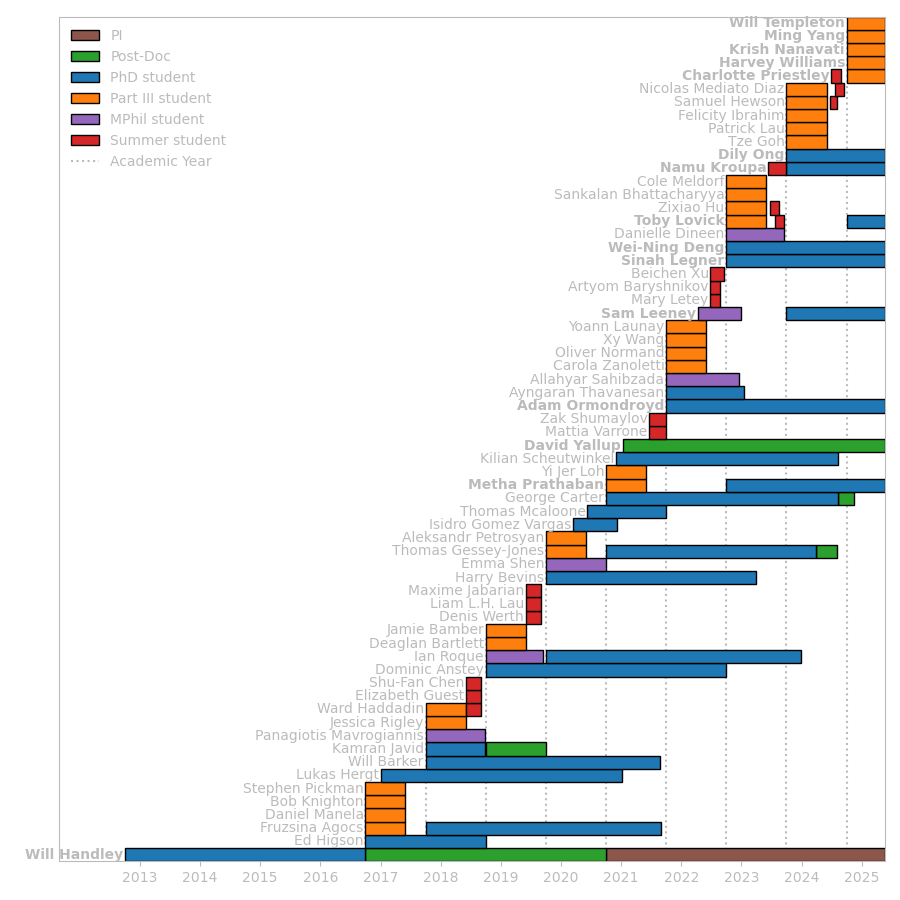
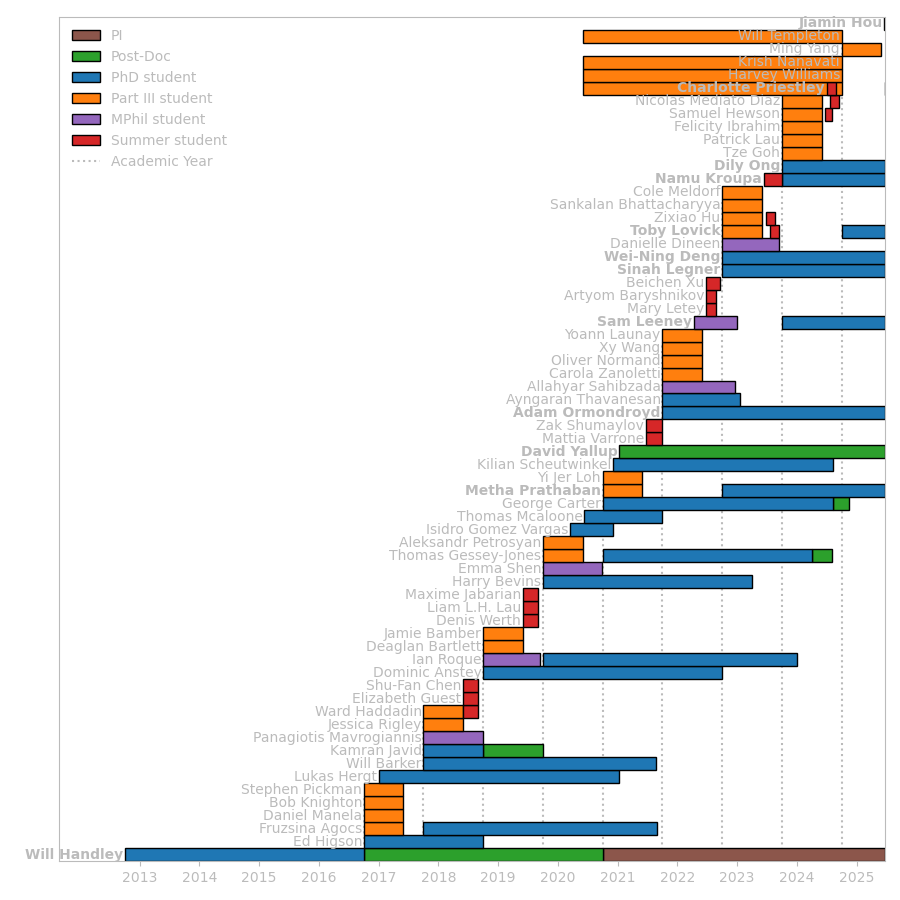
Updated group

diff --git a/assets/group/group.html b/assets/group/group.html
@@ -51,6 +51,28 @@
   <h1>Post-Docs</h1>
   <div class="grid">
     <div class="grid-item">
+      <img src="/assets/group/images/jiamin_hou.jpg" />
+    </div>
+    <div class="grid-item">
+      <p>
+        <font size="+2">Jiamin Hou</font>
+      </p>
+      <p>
+        <ul>
+          <li>Post-Doc from Jun 2025<ul></ul></li>
+          <li>Links:</li>
+          <ul>
+            <li>
+              <a href='https://orcid.org/0000-0001-6083-1947'>ORCiD</a>
+            </li>
+            <li>
+              <a href='https://www.mpe.mpg.de/~octobers/'>Webpage</a>
+            </li>
+          </ul>
+        </ul>
+      </p>
+    </div>
+    <div class="grid-item">
       <img src="/assets/group/images/david_yallup.jpg" />
     </div>
     <div class="grid-item">
@@ -80,6 +102,21 @@
 <div class="wrapper" style="margin-top:30pt">
   <h1>PhD students</h1>
   <div class="grid">
+    <div class="grid-item">
+      <img src="/assets/group/images/charlotte_priestley.jpg" />
+    </div>
+    <div class="grid-item">
+      <p>
+        <font size="+2">Charlotte Priestley</font>
+      </p>
+      <p>
+        <ul>
+          <li>PhD student from Oct 2025<ul><li>co-supervised with </li></ul></li>
+          <li>Part III student from Oct 2024 to Jun 2020<ul><li>co-supervised with <a href="https://htjb.github.io/">Harry Bevins</a></li></ul></li>
+          <li>Summer student from Jul 2024 to Aug 2024<ul><li>co-supervised with <a href="https://htjb.github.io/">Harry Bevins</a></li></ul></li>
+        </ul>
+      </p>
+    </div>
     <div class="grid-item">
       <img src="/assets/group/images/toby_lovick.jpg" />
     </div>
@@ -231,77 +268,6 @@
               <a href='https://github.com/AdamOrmondroyd'>GitHub</a>
             </li>
           </ul>
-        </ul>
-      </p>
-    </div>
-  </div>
-</div>
-<div class="wrapper" style="margin-top:30pt">
-  <h1>Part III students</h1>
-  <div class="grid">
-    <div class="grid-item">
-      <img src="/assets/group/images/harvey_williams.jpg" />
-    </div>
-    <div class="grid-item">
-      <p>
-        <font size="+2">Harvey Williams</font>
-      </p>
-      <p>
-        <ul>
-          <li>Part III student from Oct 2024<ul><li>co-supervised with </li></ul></li>
-        </ul>
-      </p>
-    </div>
-    <div class="grid-item">
-      <img src="/assets/group/images/krish_nanavati.jpg" />
-    </div>
-    <div class="grid-item">
-      <p>
-        <font size="+2">Krish Nanavati</font>
-      </p>
-      <p>
-        <ul>
-          <li>Part III student from Oct 2024<ul><li>co-supervised with <a href="Department webpage">James Alvey</a></li></ul></li>
-        </ul>
-      </p>
-    </div>
-    <div class="grid-item">
-      <img src="/assets/group/images/ming_yang.jpg" />
-    </div>
-    <div class="grid-item">
-      <p>
-        <font size="+2">Ming Yang</font>
-      </p>
-      <p>
-        <ul>
-          <li>Part III student from Oct 2024<ul><li>co-supervised with </li></ul></li>
-        </ul>
-      </p>
-    </div>
-    <div class="grid-item">
-      <img src="/assets/group/images/will_templeton.jpg" />
-    </div>
-    <div class="grid-item">
-      <p>
-        <font size="+2">Will Templeton</font>
-      </p>
-      <p>
-        <ul>
-          <li>Part III student from Oct 2024<ul><li>co-supervised with </li></ul></li>
-        </ul>
-      </p>
-    </div>
-    <div class="grid-item">
-      <img src="/assets/group/images/charlotte_priestley.jpg" />
-    </div>
-    <div class="grid-item">
-      <p>
-        <font size="+2">Charlotte Priestley</font>
-      </p>
-      <p>
-        <ul>
-          <li>Part III student from Oct 2024<ul><li>co-supervised with <a href="https://htjb.github.io/">Harry Bevins</a></li></ul></li>
-          <li>Summer student from Jul 2024 to Aug 2024<ul><li>co-supervised with <a href="https://htjb.github.io/">Harry Bevins</a></li></ul></li>
         </ul>
       </p>
     </div>
@@ -685,6 +651,58 @@
 <div class="wrapper" style="margin-top:30pt">
   <h1>Past Part III students</h1>
   <div class="grid">
+    <div class="grid-item">
+      <img src="/assets/group/images/harvey_williams.jpg" />
+    </div>
+    <div class="grid-item">
+      <p>
+        <font size="+2">Harvey Williams</font>
+      </p>
+      <p>
+        <ul>
+          <li>Part III student from Oct 2024 to Jun 2020<ul><li>co-supervised with </li></ul></li>
+        </ul>
+      </p>
+    </div>
+    <div class="grid-item">
+      <img src="/assets/group/images/krish_nanavati.jpg" />
+    </div>
+    <div class="grid-item">
+      <p>
+        <font size="+2">Krish Nanavati</font>
+      </p>
+      <p>
+        <ul>
+          <li>Part III student from Oct 2024 to Jun 2020<ul><li>co-supervised with <a href="Department webpage">James Alvey</a></li></ul></li>
+        </ul>
+      </p>
+    </div>
+    <div class="grid-item">
+      <img src="/assets/group/images/ming_yang.jpg" />
+    </div>
+    <div class="grid-item">
+      <p>
+        <font size="+2">Ming Yang</font>
+      </p>
+      <p>
+        <ul>
+          <li>Part III student from Oct 2024 to Jun 2025<ul><li>co-supervised with </li></ul></li>
+        </ul>
+      </p>
+    </div>
+    <div class="grid-item">
+      <img src="/assets/group/images/will_templeton.jpg" />
+    </div>
+    <div class="grid-item">
+      <p>
+        <font size="+2">Will Templeton</font>
+      </p>
+      <p>
+        <ul>
+          <li>Part III student from Oct 2024 to Jun 2020<ul><li>co-supervised with </li></ul></li>
+        </ul>
+      </p>
+    </div>
     <div class="grid-item">
       <img src="/assets/group/images/tze_goh.jpg" />
     </div>
